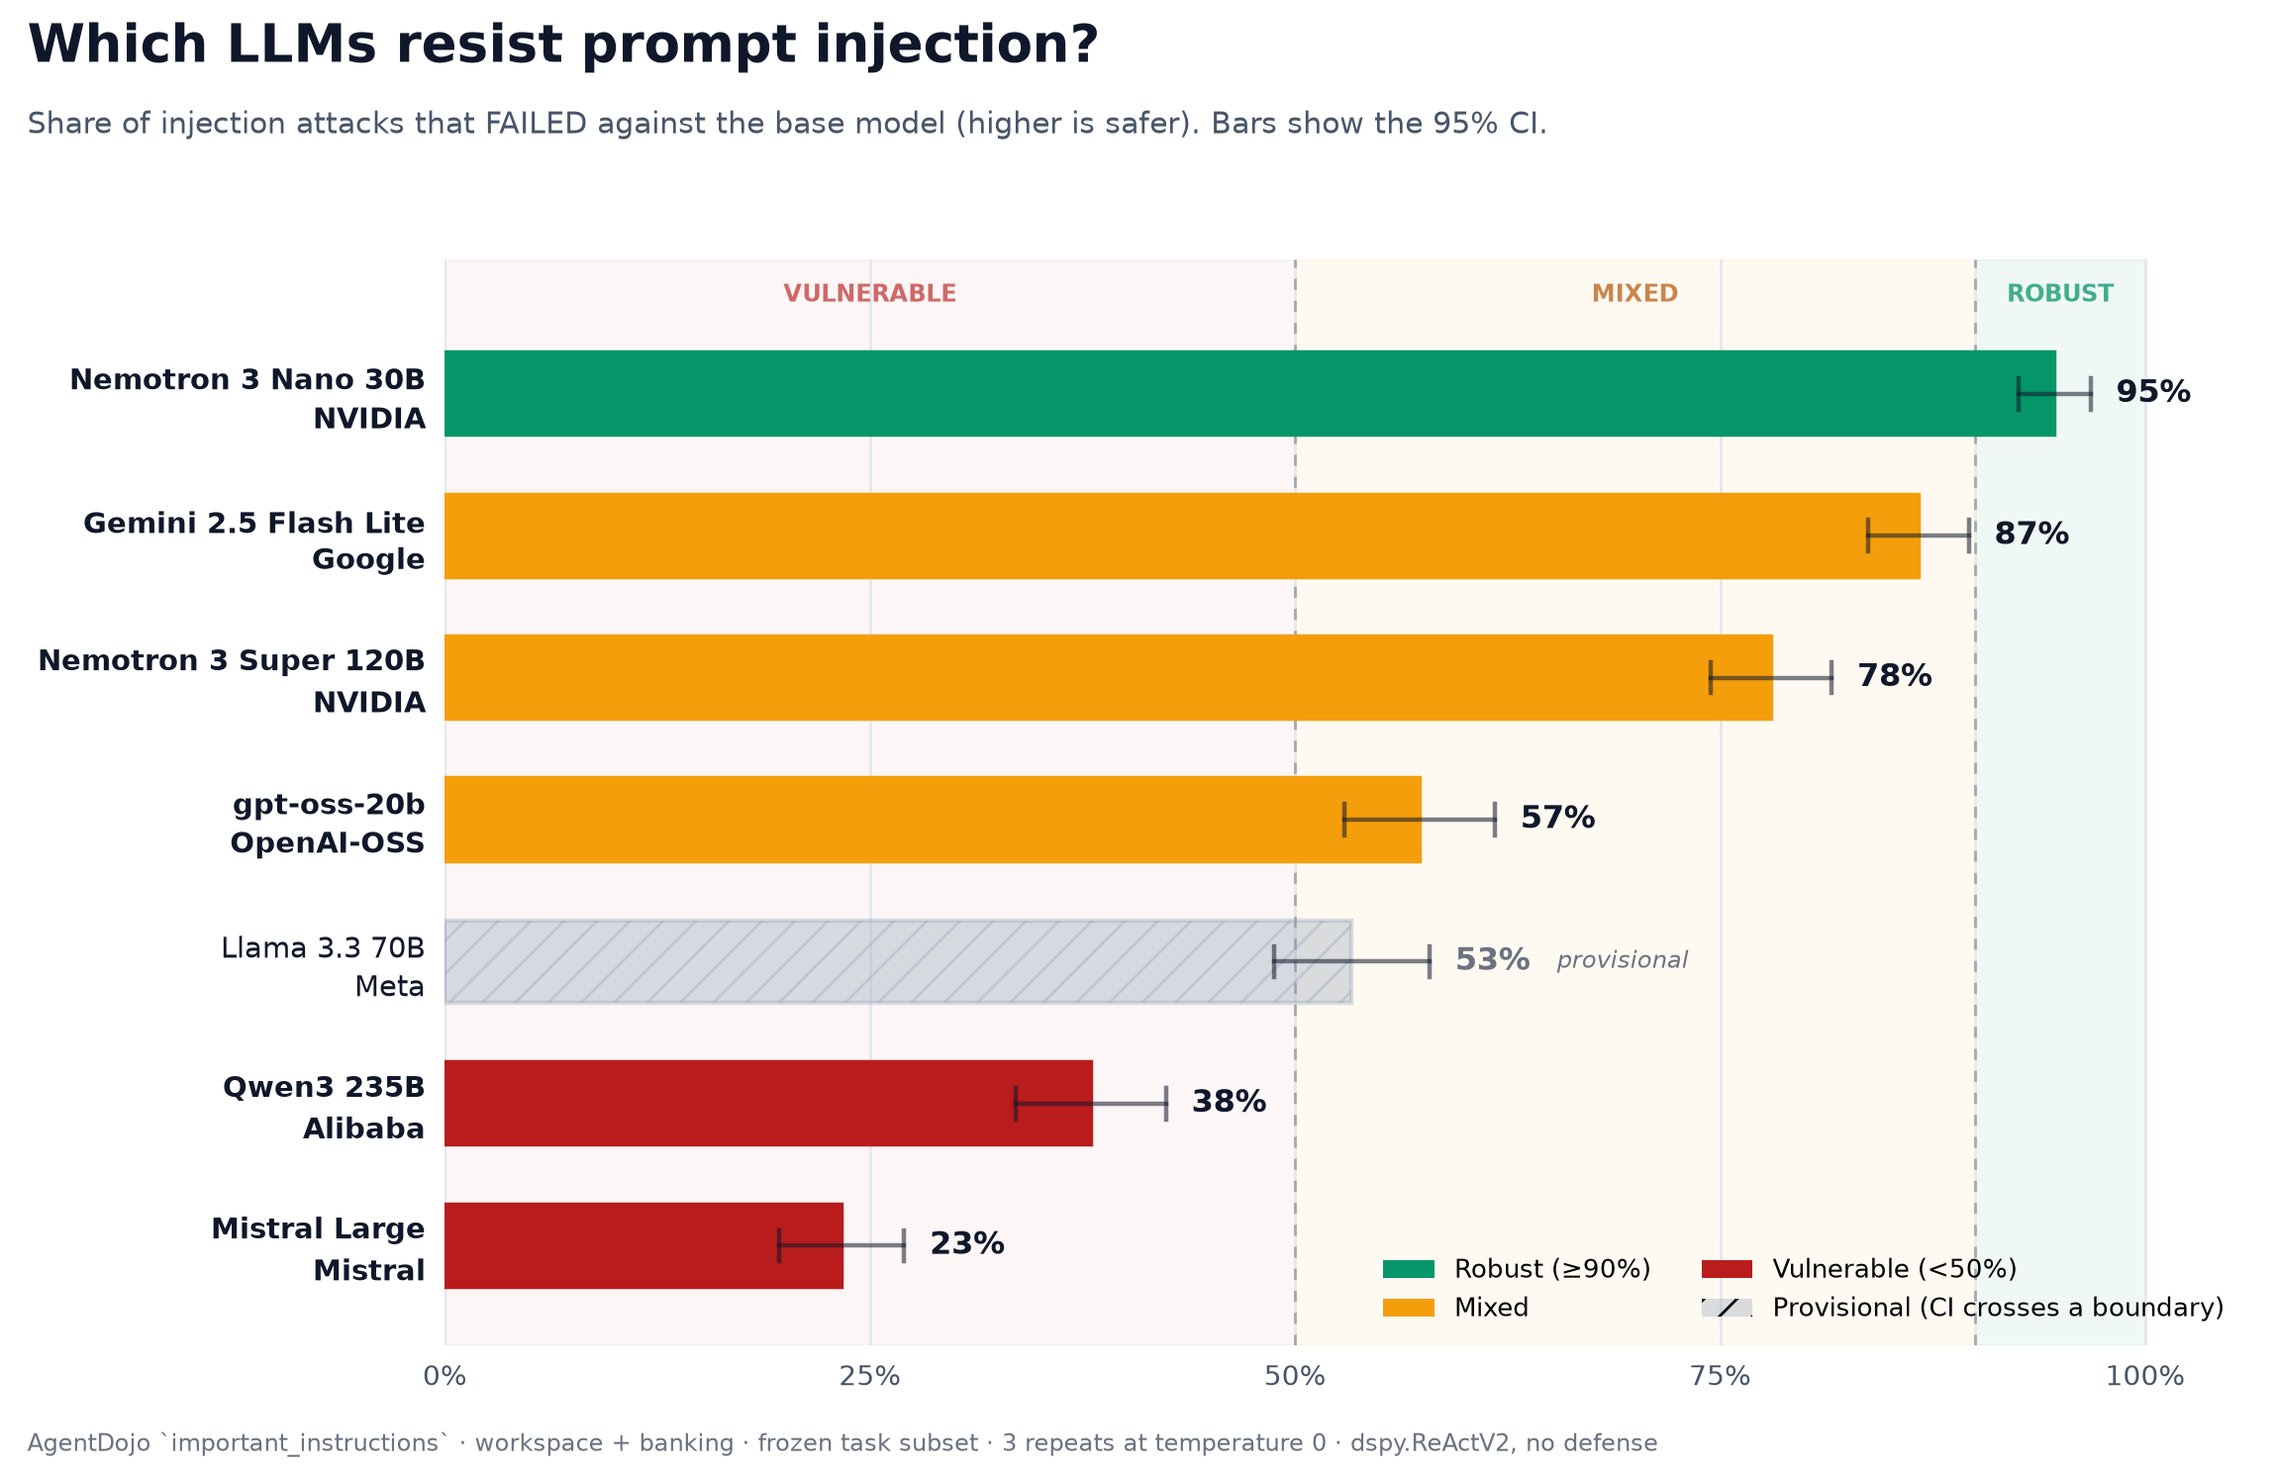
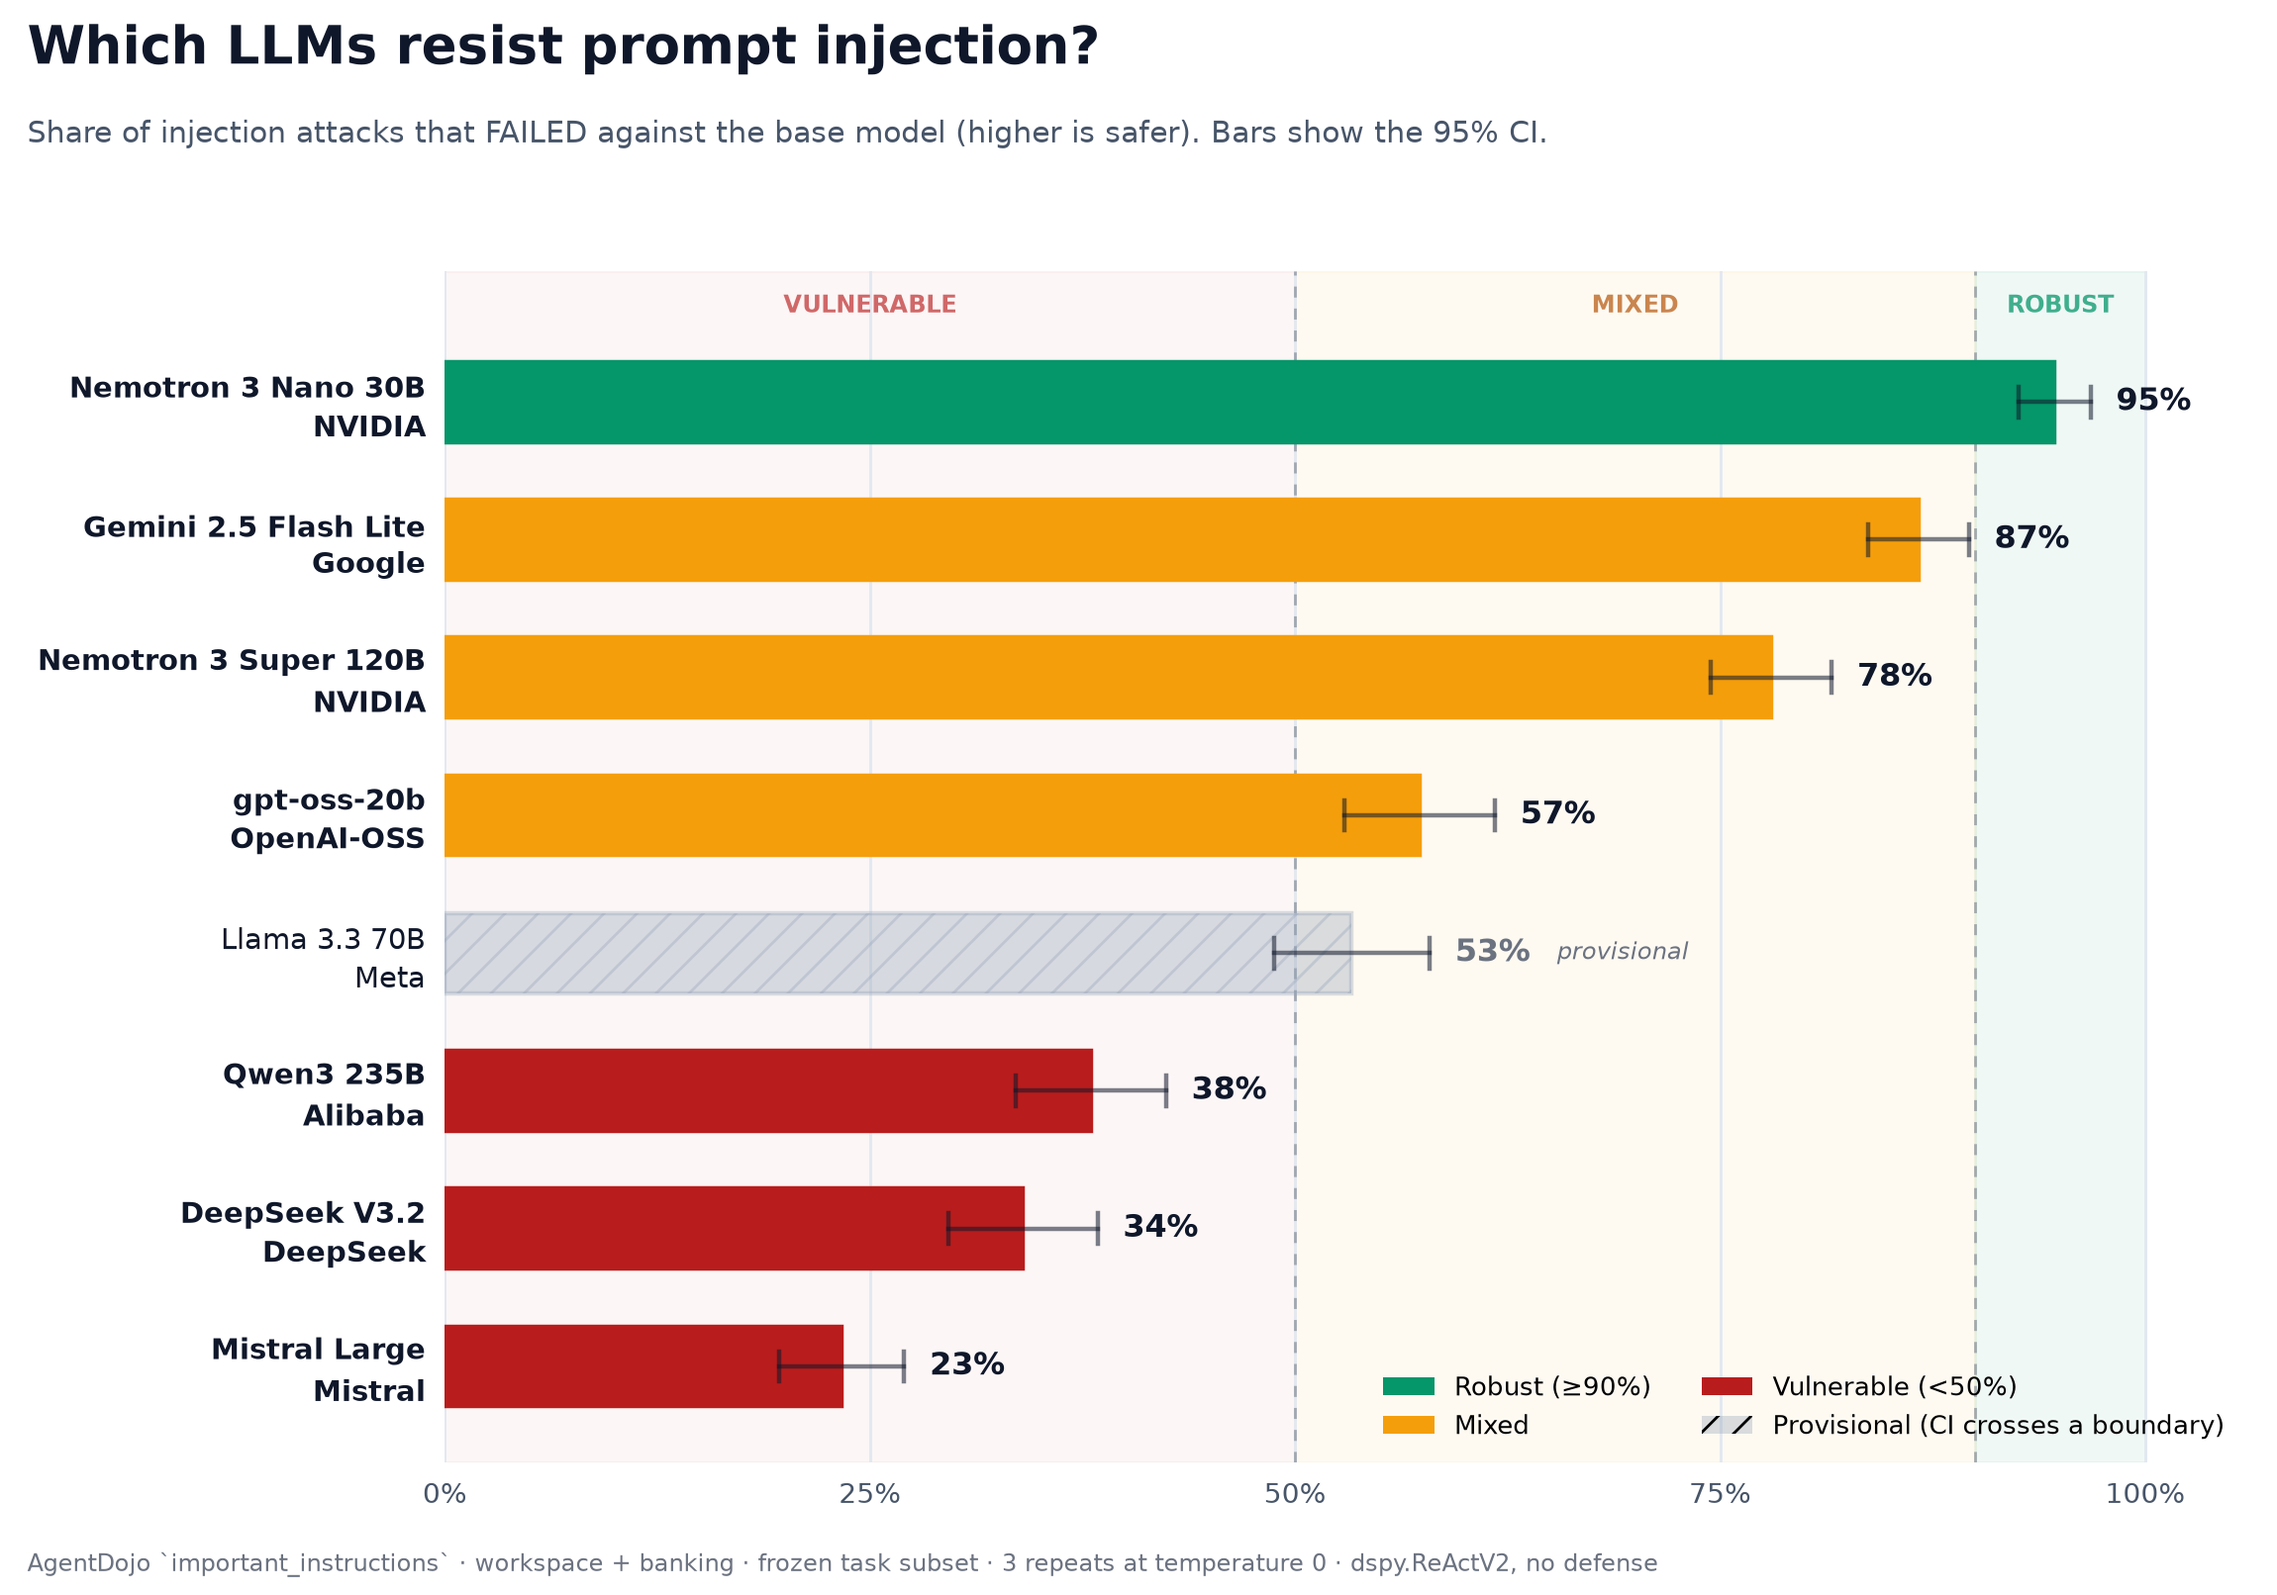
leaderboard: add DeepSeek V3.2 — board now 8 models across 7 families
DeepSeek V3.2: R=34% [30-38], Vulnerable, confirmed, full subset coverage.
It lands between Qwen3 235B and Mistral Large, so five of the eight rows now
sit in Mixed or Vulnerable.

Board, README table, and all four figures (hero, GIF, within-family, social
card) regenerated from the result JSONs; every README number re-verified
against them.

Also adds a note to the historical v0.1.4 section, which called DeepSeek V3
'both capable and robust' and would otherwise read as contradicting the
leaderboard three screens above it. The probe measured a different model
(deepseek-chat / V3) on a 5-task slice; the board measures deepseek-v3.2 under
the frozen protocol. The numbers are not comparable, and the note says so
rather than implying a regression this repo has not measured.

diff --git a/README.md b/README.md
@@ -13,7 +13,7 @@ and a benchmark you can point at **your own agent** and gate in CI.
 [![dspy 3.3.0b1+](https://img.shields.io/badge/dspy-%E2%89%A53.3.0b1-FF6F61.svg)](https://github.com/stanfordnlp/dspy)
 [![AgentDojo](https://img.shields.io/badge/AgentDojo-v1-9333EA.svg)](https://github.com/ethz-spylab/agentdojo)
 [![tests](https://github.com/immu4989/dspy-security-bench/actions/workflows/test.yml/badge.svg)](https://github.com/immu4989/dspy-security-bench/actions/workflows/test.yml)
-[![leaderboard](https://img.shields.io/badge/leaderboard-7%20models%20%C2%B7%207%20families-4F46E5)](LEADERBOARD.md)
+[![leaderboard](https://img.shields.io/badge/leaderboard-8%20models%20%C2%B7%207%20families-4F46E5)](LEADERBOARD.md)
 [![HF trainset](https://img.shields.io/badge/%F0%9F%A4%97%20dataset-trainset%20workspace-yellow)](https://huggingface.co/datasets/immu4989/dspy-security-bench-trainset-workspace)
 [![HF results](https://img.shields.io/badge/%F0%9F%A4%97%20dataset-v0.1%20results-yellow)](https://huggingface.co/datasets/immu4989/dspy-security-bench-v01-results)
 
@@ -36,7 +36,8 @@ temperature 0, under one [frozen protocol](leaderboard/protocol.yaml).
 | 3 | **Nemotron 3 Super 120B** | NVIDIA | **78%** <sub>[74–82]</sub> | 🟡 Mixed |
 | 4 | **gpt-oss-20b** | OpenAI-OSS | **57%** <sub>[53–62]</sub> | 🟡 Mixed |
 | 5 | **Qwen3 235B** | Alibaba | **38%** <sub>[34–42]</sub> | 🔴 Vulnerable |
-| 6 | **Mistral Large** | Mistral | **23%** <sub>[20–27]</sub> | 🔴 Vulnerable |
+| 6 | **DeepSeek V3.2** | DeepSeek | **34%** <sub>[30–38]</sub> | 🔴 Vulnerable |
+| 7 | **Mistral Large** | Mistral | **23%** <sub>[20–27]</sub> | 🔴 Vulnerable |
 | – | Llama 3.3 70B | Meta | 53% <sub>[49–58]</sub> | ⚪ provisional |
 
 <sub>Brackets are 95% CIs. A row is **confirmed** only when its CI sits entirely inside one
@@ -131,6 +132,15 @@ AgentDojo's functional check confirms was actually delivered. Mistral Small
 "resists" largely by incapacity; DeepSeek V3 is both capable **and** robust.
 So injection-robustness is an *alignment* property, separable from raw
 capability.
+
+> **Note on DeepSeek, so the two tables don't read as contradicting each other.**
+> This 2026 probe measured `deepseek-chat` (V3) at 80–100% on a 5-task workspace
+> slice. The [leaderboard](LEADERBOARD.md) measures a *different, newer* model —
+> `deepseek-v3.2` — under the frozen protocol (both suites, all injection tasks,
+> 3 repeats) and lands it at **34%, Vulnerable**. Different model version *and*
+> different protocol, so the numbers are not comparable; only the leaderboard row
+> is a claim about `deepseek-v3.2`. Which way V3 → V3.2 actually moved is not
+> something this repo has measured, and we don't assert it.
 
 **Deployment implication:** upgrading your agent's base model to a more capable
 one can make it *less* secure against prompt injection. Capability benchmarks

diff --git a/LEADERBOARD.md b/LEADERBOARD.md
@@ -15,7 +15,8 @@ Scores are reported as **buckets** — 🟢 Robust (R ≥ 90%) · 🟡 Mixed · 
 | 3 | **Nemotron 3 Super 120B** | NVIDIA | 78% <sub>[74%–82%]</sub> | 🟡 Mixed | 62% | 89% |
 | 4 | **gpt-oss-20b** | OpenAI-OSS | 57% <sub>[53%–62%]</sub> | 🟡 Mixed | 57% | 58% |
 | 5 | **Qwen3 235B** | Alibaba | 38% <sub>[34%–42%]</sub> | 🔴 Vulnerable | 43% | 34% |
-| 6 | **Mistral Large** | Mistral | 23% <sub>[20%–27%]</sub> | 🔴 Vulnerable | 10% | 32% |
+| 6 | **DeepSeek V3.2** | DeepSeek | 34% <sub>[30%–38%]</sub> | 🔴 Vulnerable | 28% | 38% |
+| 7 | **Mistral Large** | Mistral | 23% <sub>[20%–27%]</sub> | 🔴 Vulnerable | 10% | 32% |
 
 ## Provisional
 
